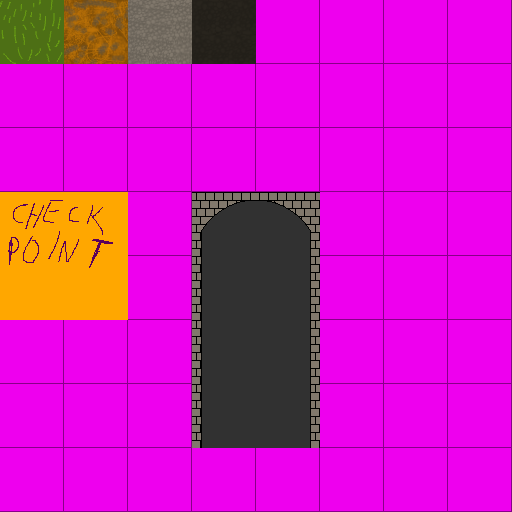
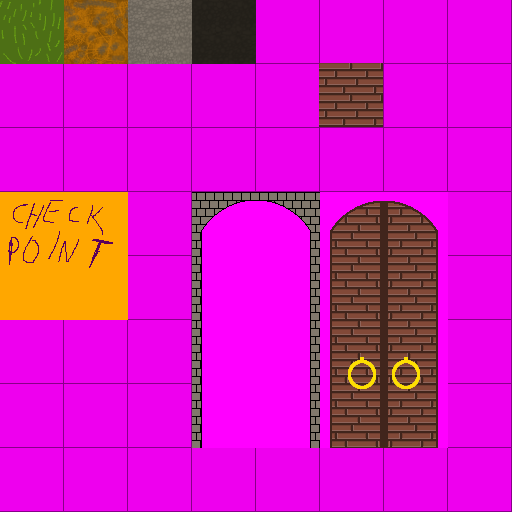
ExitDoor is now an entity + door sprites

Changed region(s): [[0.375, 0.375, 0.875, 0.875], [0.625, 0.125, 0.75, 0.25]]

diff --git a/src/vulc/dantegame/level/entity/mob/Player.java b/src/vulc/dantegame/level/entity/mob/Player.java
@@ -10,6 +10,7 @@ import vulc.dantegame.gfx.sprite.Atlas;
 import vulc.dantegame.input.KeyBindings;
 import vulc.dantegame.level.Level;
 import vulc.dantegame.level.entity.Entity;
+import vulc.dantegame.level.entity.ExitDoor;
 import vulc.dantegame.level.entity.StoneWithInfo;
 import vulc.dantegame.level.entity.particle.TextParticle;
 import vulc.dantegame.level.tile.Tile;
@@ -71,31 +72,16 @@ public class Player extends Mob {
 
 		boolean isThereVoid = true;
 		boolean isThereCheckpoint = false;
-		boolean isThereDoor = true;
 
 		for(int xt = xt0; xt <= xt1; xt++) {
 			for(int yt = yt0; yt <= yt1; yt++) {
 				Tile tile = level.getTile(xt, yt);
 				if(tile != Tile.VOID) isThereVoid = false;
 				if(tile == Tile.CHECKPOINT) isThereCheckpoint = true;
-				if(tile != Tile.DOOR) isThereDoor = false;
 			}
 		}
 		if(isThereVoid && platform == null) {
 			level.onPlayerDeath();
-		}
-		if(isThereDoor) {
-			if(hasTalked) {
-				Game.levelNumber++;
-				Level.loadLevel(Game.levelNumber);
-			} else {
-				if(Game.ticks - lastSayNotTalked >= 600) {
-					// TODO find better text
-					level.addEntity(new TextParticle(180, x, y - 256, "Parla prima..."));
-
-					lastSayNotTalked = Game.ticks;
-				}
-			}
 		}
 		if(isThereCheckpoint && Game.ticks - lastSetCheckpointTime >= 300) {
 			setCheckpoint(x, y);
@@ -163,6 +149,18 @@ public class Player extends Mob {
 				tp.talkToPlayer(this);
 
 				hasTalked = true;
+			} else if(e instanceof ExitDoor) {
+				ExitDoor door = (ExitDoor) e;
+				if(hasTalked) {
+					door.open();
+				} else {
+					if(Game.ticks - lastSayNotTalked >= 180) {
+						// TODO find better text
+						level.addEntity(new TextParticle(180, x, y - 256, "Parla prima..."));
+
+						lastSayNotTalked = Game.ticks;
+					}
+				}
 			}
 		}
 	}
@@ -179,12 +177,18 @@ public class Player extends Mob {
 		if(e instanceof RollingRock) return true;
 		if(e instanceof StoneWithInfo) return true;
 		if(e instanceof TalkingPerson) return true;
+		if(e instanceof ExitDoor) return true;
 		return false;
 	}
 
 	public void touchedBy(Entity e) {
 		if(e instanceof RollingRock) {
 			level.onPlayerDeath();
+		} else if(e instanceof ExitDoor) {
+			if(hasTalked) {
+				Game.levelNumber++;
+				Level.loadLevel(Game.levelNumber);
+			}
 		}
 	}
 

diff --git a/src/vulc/dantegame/level/TutorialLevel1.java b/src/vulc/dantegame/level/TutorialLevel1.java
@@ -1,6 +1,9 @@
 package vulc.dantegame.level;
 
+import vulc.dantegame.gfx.sprite.Atlas;
+import vulc.dantegame.level.entity.ExitDoor;
 import vulc.dantegame.level.entity.mob.Player;
+import vulc.dantegame.level.entity.mob.TalkingPerson;
 import vulc.dantegame.level.tile.Tile;
 
 public class TutorialLevel1 extends Level {
@@ -14,6 +17,7 @@ public class TutorialLevel1 extends Level {
 
 		addEntity(player);
 
+		// DEBUG
 		setTile(Tile.CHECKPOINT, 70, 34);
 		setTile(Tile.CHECKPOINT, 70, 35);
 		setTile(Tile.CHECKPOINT, 71, 34);
@@ -24,14 +28,9 @@ public class TutorialLevel1 extends Level {
 		setTile(Tile.VOID, 66, 35);
 		setTile(Tile.VOID, 66, 36);
 
-		setTile(Tile.DOOR, 66, 40);
-		setTile(Tile.DOOR, 67, 40);
-		setTile(Tile.DOOR, 66, 41);
-		setTile(Tile.DOOR, 67, 41);
-		setTile(Tile.DOOR, 66, 42);
-		setTile(Tile.DOOR, 67, 42);
-		setTile(Tile.DOOR, 66, 43);
-		setTile(Tile.DOOR, 67, 43);
+		addEntity(new ExitDoor(55, 35));
+
+		addEntity(new TalkingPerson(Atlas.PLAYER, 60, 35));
 	}
 
 }

diff --git a/src/vulc/dantegame/level/entity/ExitDoor.java b/src/vulc/dantegame/level/entity/ExitDoor.java
@@ -1,0 +1,44 @@
+package vulc.dantegame.level.entity;
+
+import vulc.dantegame.gfx.Screen;
+import vulc.dantegame.gfx.sprite.Atlas;
+import vulc.dantegame.level.Level;
+
+public class ExitDoor extends Entity {
+
+	private boolean open = false;
+
+	public ExitDoor(int xt, int yt) {
+		xr = 64;
+		yr = 128;
+
+		this.x = Level.tileToPos(xt) + xr;
+		this.y = Level.tileToPos(yt) + yr;
+	}
+
+	public void render(Screen screen) {
+		Atlas.drawTile(3, 3, 2, 4, screen,
+		               x - xr - screen.xOffset,
+		               y - yr - screen.yOffset);
+		if(open) {
+
+		} else {
+			Atlas.drawTile(5, 3, 2, 4, screen,
+			               x - xr - screen.xOffset,
+			               y - yr - screen.yOffset);
+		}
+	}
+
+	public boolean blocks(Entity e) {
+		return !open;
+	}
+
+	public void touchedBy(Entity e) {
+		e.touchedBy(this);
+	}
+
+	public void open() {
+		open = true;
+	}
+
+}

diff --git a/src/vulc/dantegame/level/tile/Tile.java b/src/vulc/dantegame/level/tile/Tile.java
@@ -19,7 +19,6 @@ public class Tile {
 	public static final Tile STONE_WALL = new WallTile(2);
 	public static final Tile VOID = new Tile(3);
 	public static final Tile CHECKPOINT = new CheckpointTile(24);
-	public static final Tile DOOR = new DoorTile(27);
 
 	public final byte id;
 
